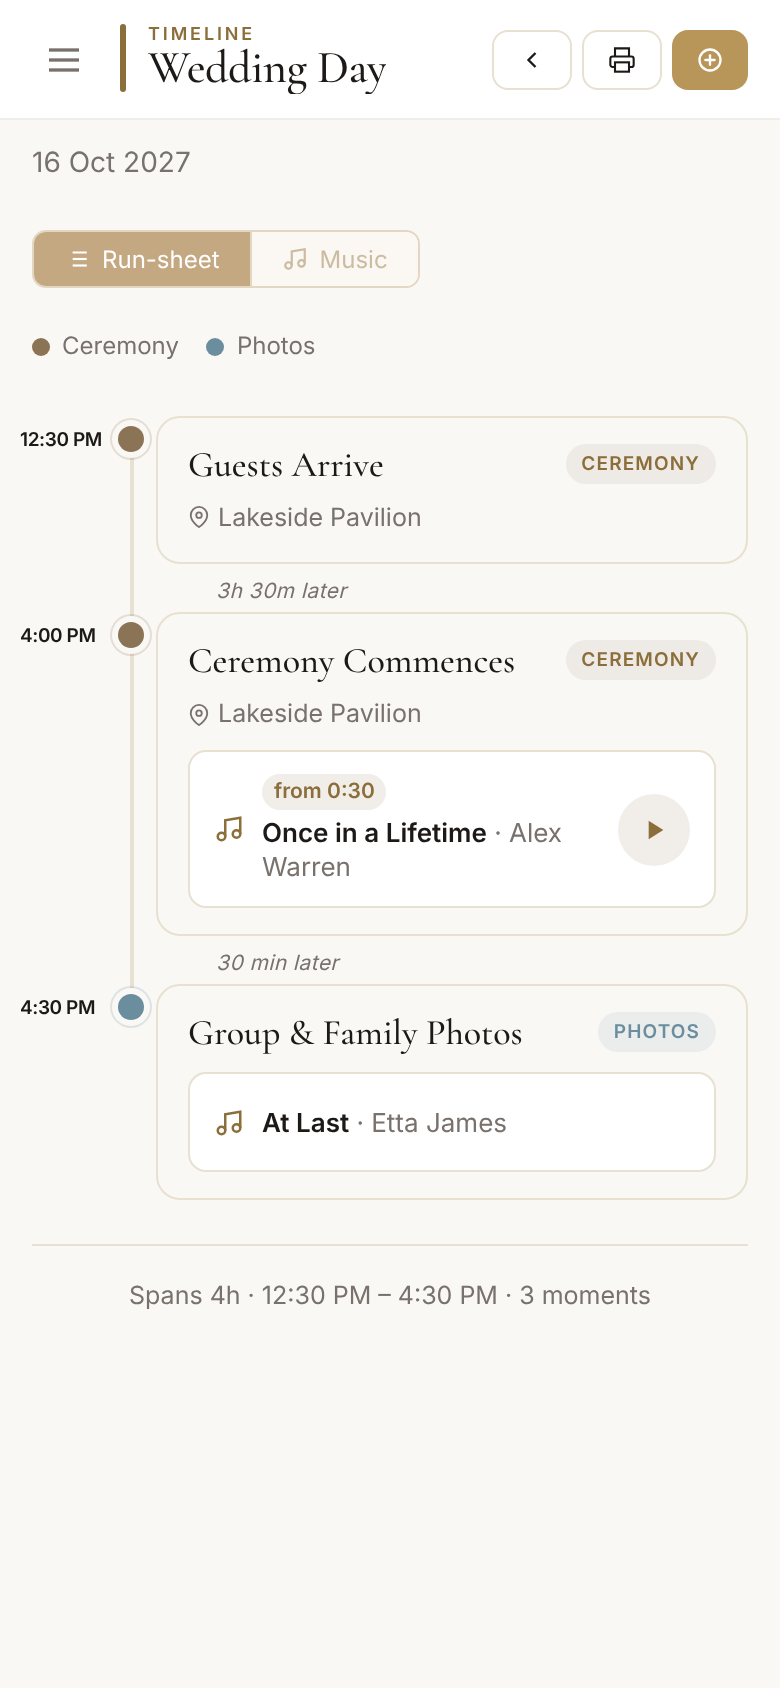
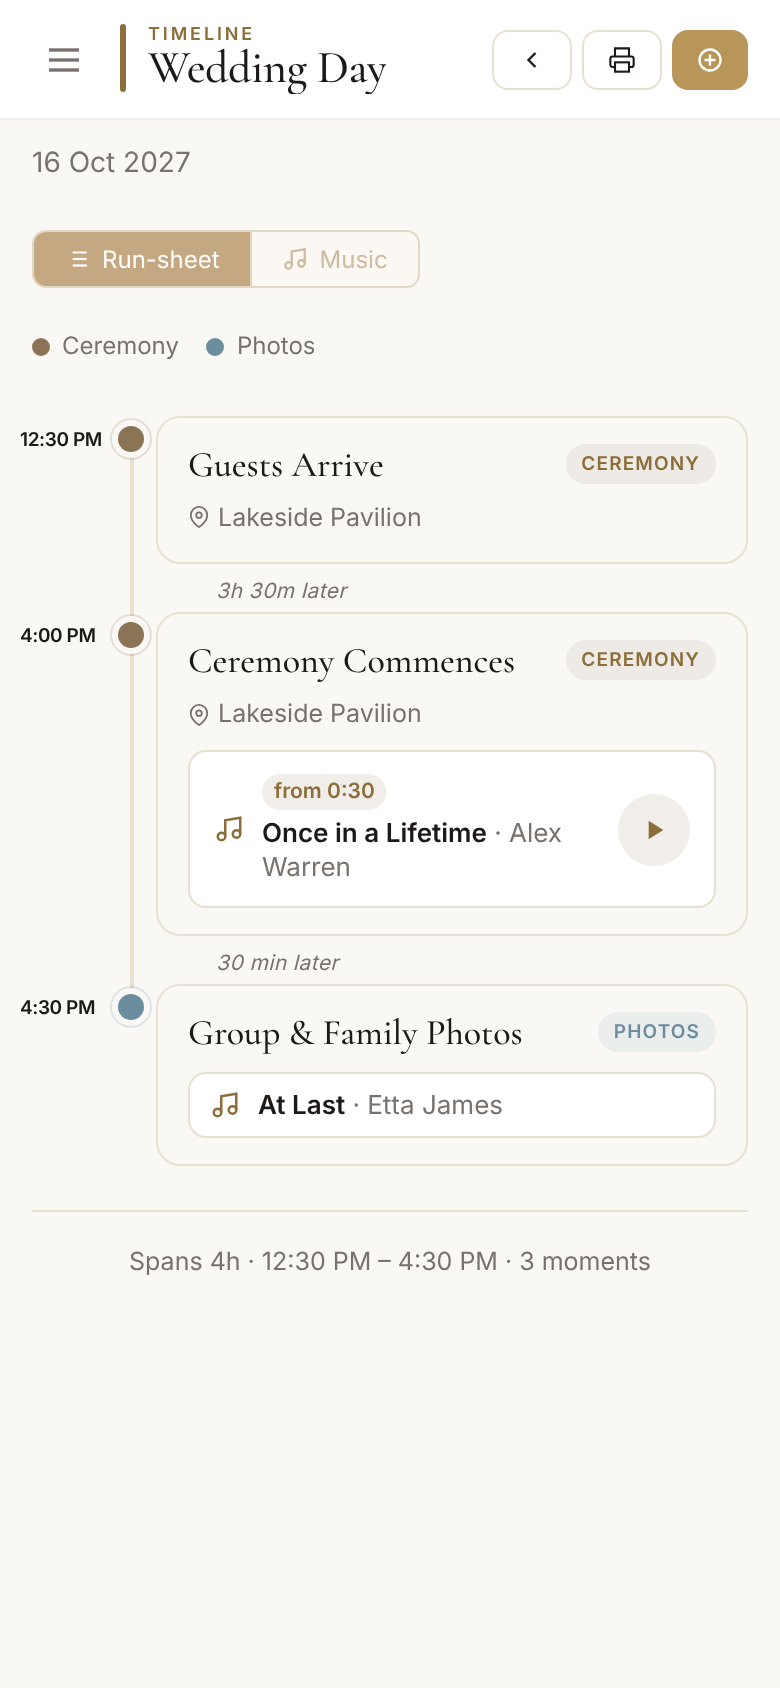
v508: song card stays compact when there is no start time
Claude-Session: https://claude.ai/code/session_019ebu8y6tvbQkLuJc75gwaS

Changed region(s): [[0.1538, 0.7085, 0.9231, 0.7701], [0.2769, 0.6469, 0.6462, 0.6777], [0.1846, 0.6777, 0.2154, 0.7085]]

diff --git a/css/app.css b/css/app.css
@@ -3111,7 +3111,9 @@ body.dark .vendor-lookup-soon .vls-mark{color:rgba(195,182,158,.7);border-color:
   .tl-row .song-chip .sc-note{grid-area:note}
   .tl-row .song-chip .sc-start{grid-area:start;justify-self:start}
   .tl-row .song-chip .sc-txt{grid-area:txt;font-size:13px;white-space:normal;overflow:visible;line-height:1.3}
-  .tl-row .song-chip:not(:has(.sc-start)){grid-template-areas:"note txt play";min-height:50px}
+  .tl-row .song-chip:not(:has(.sc-start)){grid-template-areas:"note txt play";min-height:0;padding:7px 10px}
+  .tl-row .song-chip:not(:has(.sc-start)) .sc-play{width:28px;height:28px}
+  .tl-row .song-chip:not(:has(.sc-start)) .sc-play svg{width:13px;height:13px}
   .tl-row .song-chip .sc-play{grid-area:play;width:36px;height:36px;align-items:center;justify-content:center;border-radius:50%;background:rgba(139,115,85,.12)}
   body.dark .tl-row .song-chip .sc-play{background:rgba(196,168,130,.18)}
   .tl-row .song-chip .sc-play svg{width:16px;height:16px}

diff --git a/js/autocomplete.js b/js/autocomplete.js
@@ -146,7 +146,7 @@ function _acPick(inputId, name){
 // can land a launch late — and there was previously NO way to tell which build was
 // actually running. Diagnosing "I uploaded it but nothing changed" meant hunting for
 // whether a feature happened to appear. Bump this with every release.
-const APP_BUILD='v507';
+const APP_BUILD='v508';
 const APP_BUILD_DATE='2026-11-04';
 function _seatingPrintHtml(forPreview){
   const ev=STATE.event||{};

diff --git a/sw.js b/sw.js
@@ -1,4 +1,4 @@
-const CACHE = 'union-vault-v507';
+const CACHE = 'union-vault-v508';
 const SHELL = [
   '/', '/index.html',
   '/css/fonts.css', '/css/app.css', '/css/landing.css', '/css/setup-wizard.css',
